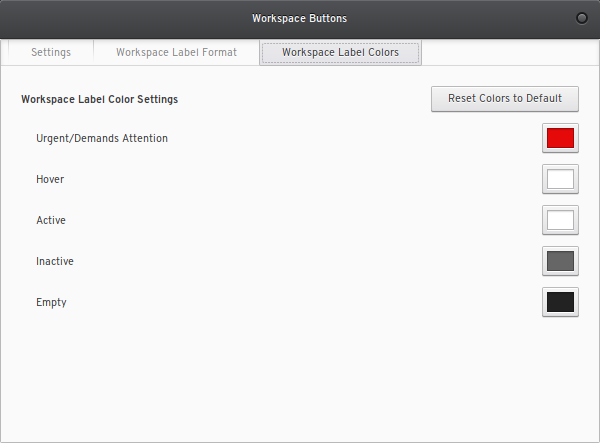
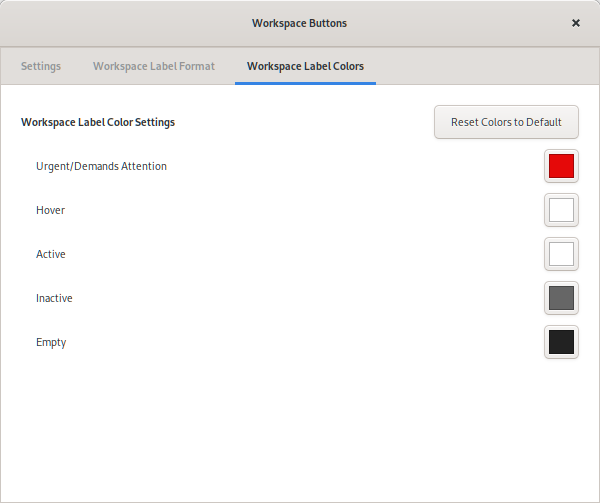
Update README and screenshots
Update the README.md along with screenshots that are now using a mostly default Adwaita theme, apart from some font size tweaks.

diff --git a/README.md b/README.md
@@ -1,12 +1,12 @@
 # Workspace Buttons
 
-This is a GNOME shell extension for switching workspaces on the panel, based off of my fork of [WorkspaceBar](https://gitlab.com/carmanaught/workspacebar), which itself was forked from [mbokil/workspacebar](https://github.com/mbokil/workspacebar). The extension requires at least GNOME 3.26, as it uses ES6 class syntax.
+This is a GNOME shell extension for switching workspaces on the panel, based off of my fork of [WorkspaceBar](https://gitlab.com/carmanaught/workspacebar), which itself was forked from [mbokil/workspacebar](https://github.com/mbokil/workspacebar). I generally update the extension to work with the most recent GNOME version and try to follow changes to official GNOME extensions (e.g.  `registerClass` or `_init`/`constructor` changes) and I don't guarantee backwards compatibility.
 
 The primary difference with this extension is that it uses PanelMenu.Button objects for each workspace button. Each of these buttons has a menu which contains a list of the windows on the workspace, allowing you to activate the application (credit to [lyonell/all-windows](https://github.com/lyonel/all-windows) for some of the code and ideas). The buttons also allow switching to a given workspace if the option to do so has been toggled on (with a choice between Primary and Secondary button, depending on preference).
 
 While most of the functionality from the WorkspaceBar extension has been kept, some things have been removed. See further below for details. One new addition is the ability to adjust the colors used for the workspace labels across various states (urgent / hover / active / inactive / empty) from the preferences.
 
-This is how the Workspace Buttons look like in action with the current choice of styling. For reference the hover/active style for the buttons themselves (not the labels) is from the gnome-shell theme in use when taking these screenshots, specifically [Vertex Theme](https://github.com/horst3180/vertex-theme).
+This is how the Workspace Buttons look like in action with the current choice of styling (using a slightly tweaked Adwaita gnome-shell theme).
 
 ![Workspace Buttons in action](./screenshots/workspace-buttons-names.png?raw=true)
 - The active/current workspace defaults to bright white text
@@ -19,13 +19,15 @@ This is how the Workspace Buttons look using the Activity Indicator option and w
 
 ![Workspace Buttons in action with activity indicators](./screenshots/workspace-buttons-indicators.png?raw=true)
 
-This is how the menu looks when opened. The left is the appearance with the panel at the top and the right is the appearance with the panel at the bottom (using BottomPanel - [Gnome Extensions Page](https://extensions.gnome.org/extension/949/bottompanel/) - [GitHub](https://github.com/Thoma5/gnome-shell-extension-bottompanel)).
+This is how the menu looks when opened.
 
 ![Workspace Buttons with the menu open](./screenshots/workspace-buttons-menus.png?raw=true)
 
 These are the General Settings on the Settings page.
 
 ![Workspace Buttons - General Settings](./screenshots/settings-general.png?raw=true)
+
+**Note:** For the "Disable the workspace switcher popup" setting, as noted, the disabling of the workspace switcher popup will not work if another workspace switcher popup extension is installed, regardless of whether it's enabled or not (avoid installing another extension that does workspace switcher stuff with this setting enabled). This includes things that modify the workspace switcher or override it in some way.
 
 This is the Workspace Label Format settings page which is used to change the settings for how the workspace labels appear. The format settings are somewhat more extensive and allow a greater degree of customization.
 
@@ -65,3 +67,4 @@ Thanks to these people for code of theirs that I've used.
 - null4bl3
 - lyonell
 - hackedbellini
+- windsorschmidt
